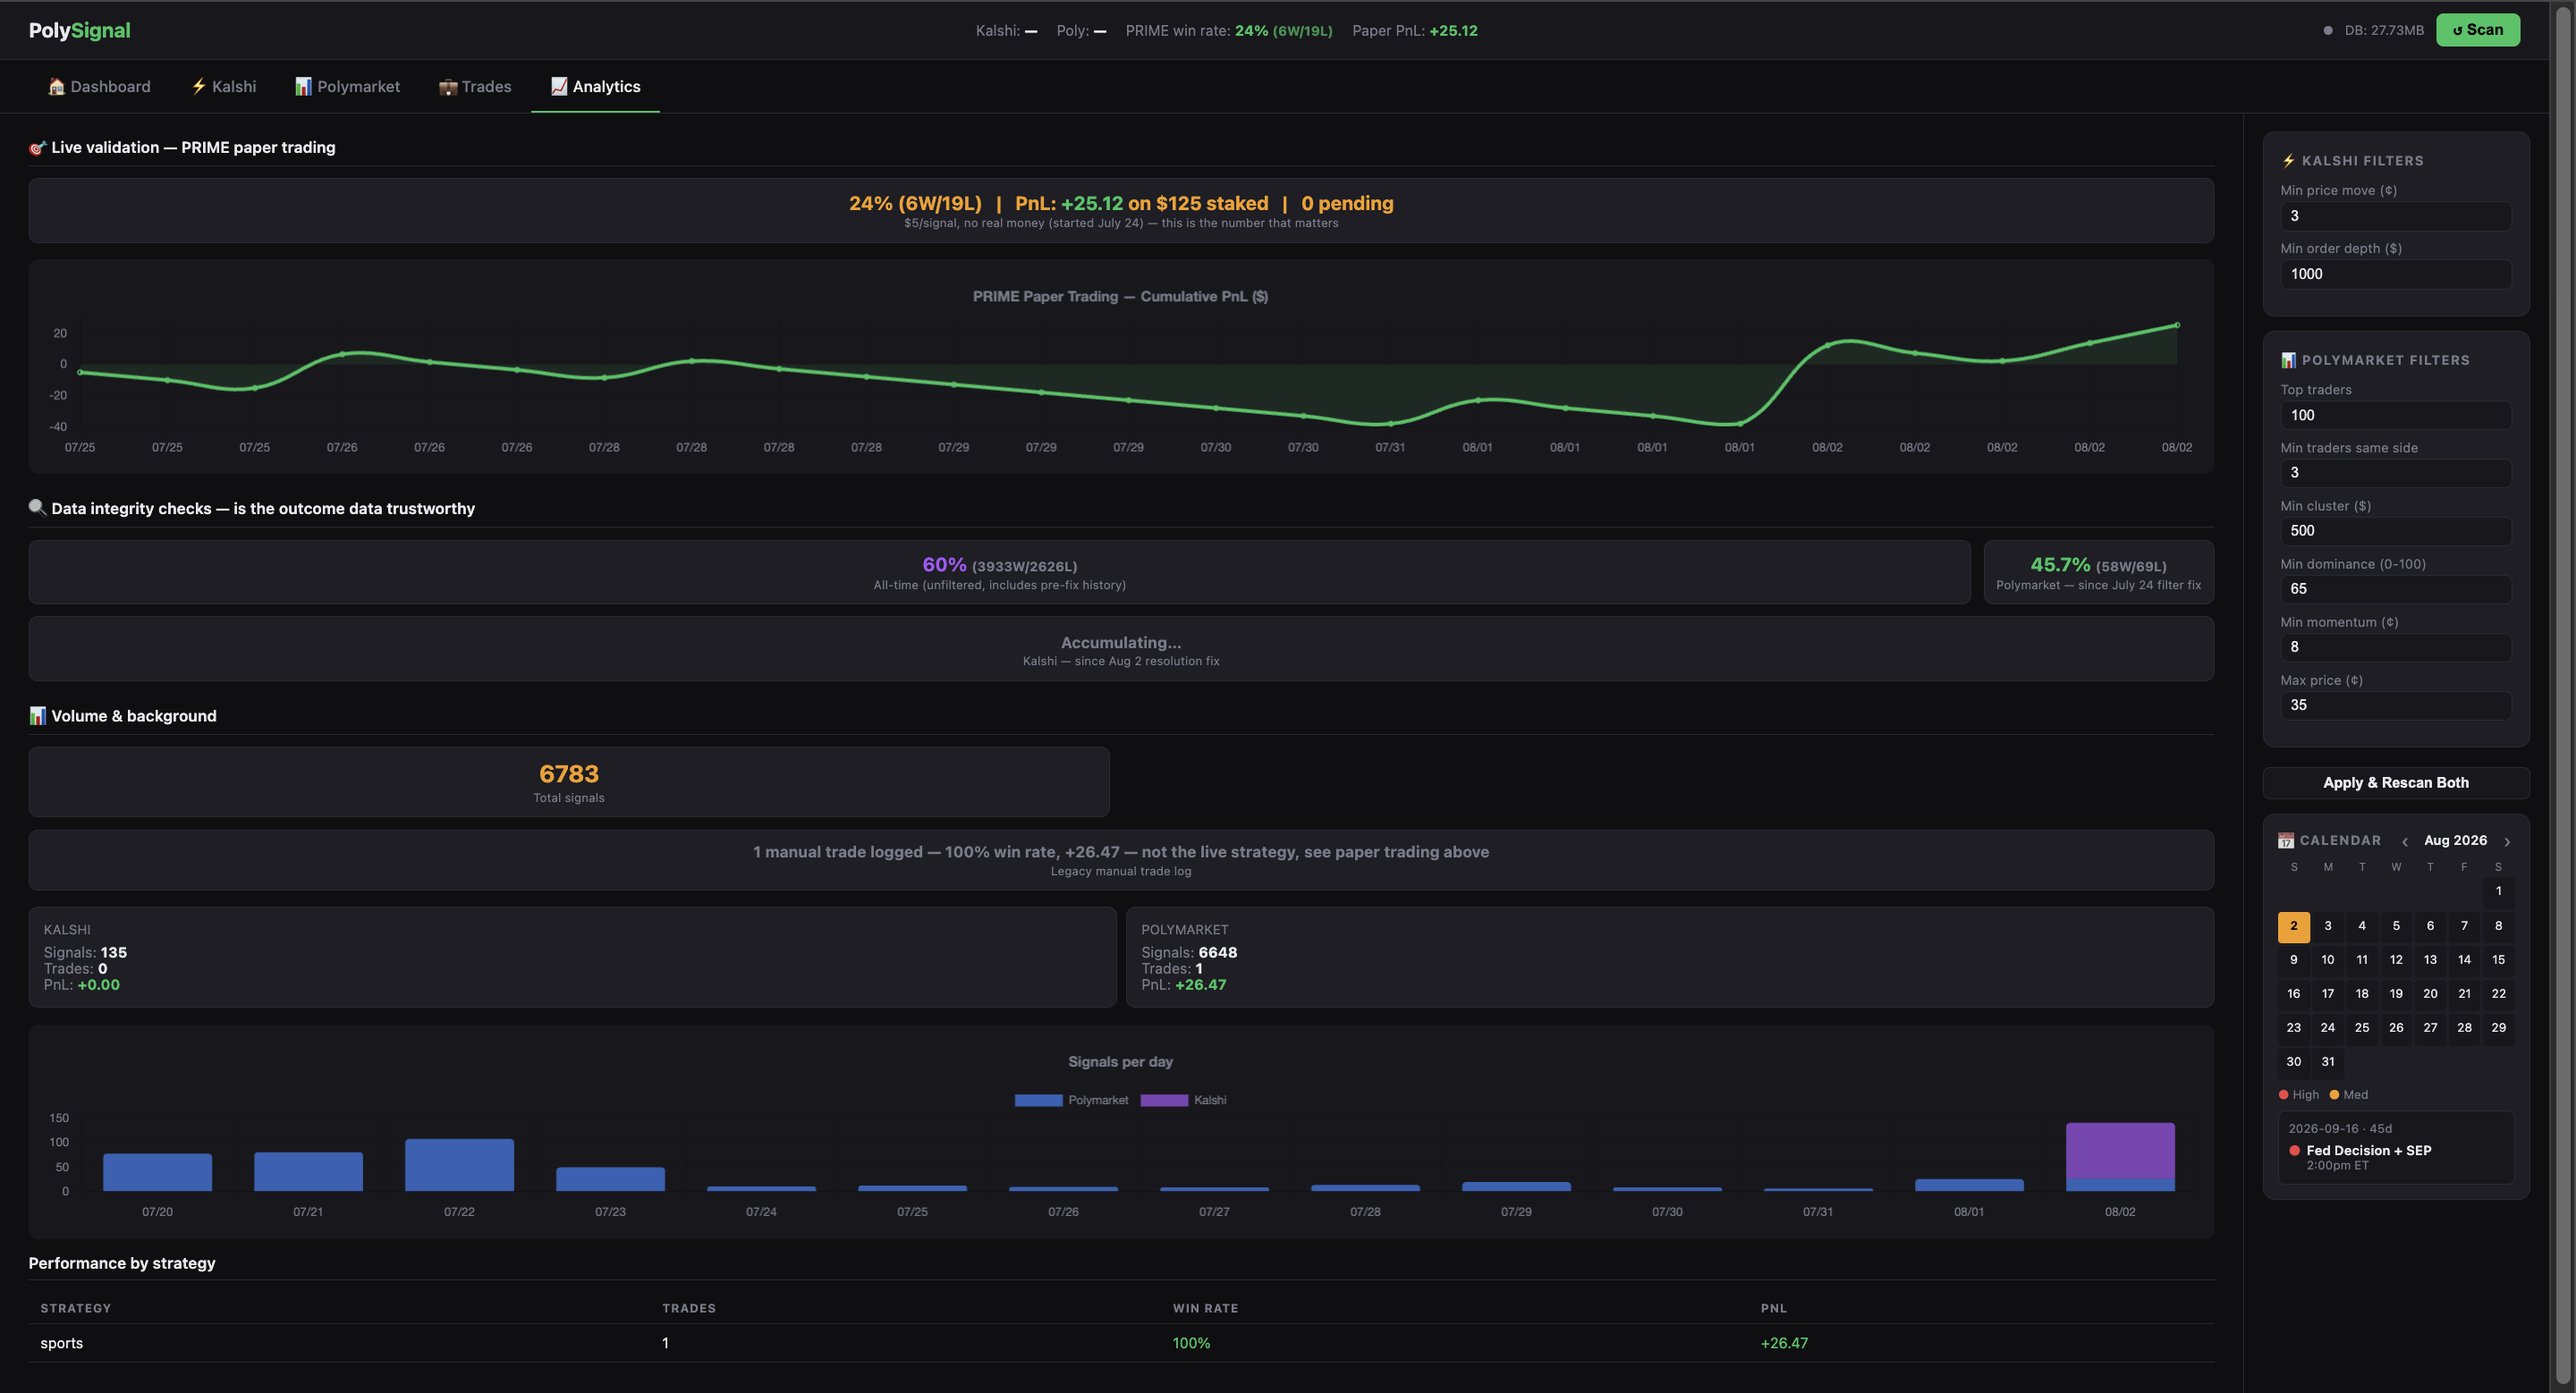
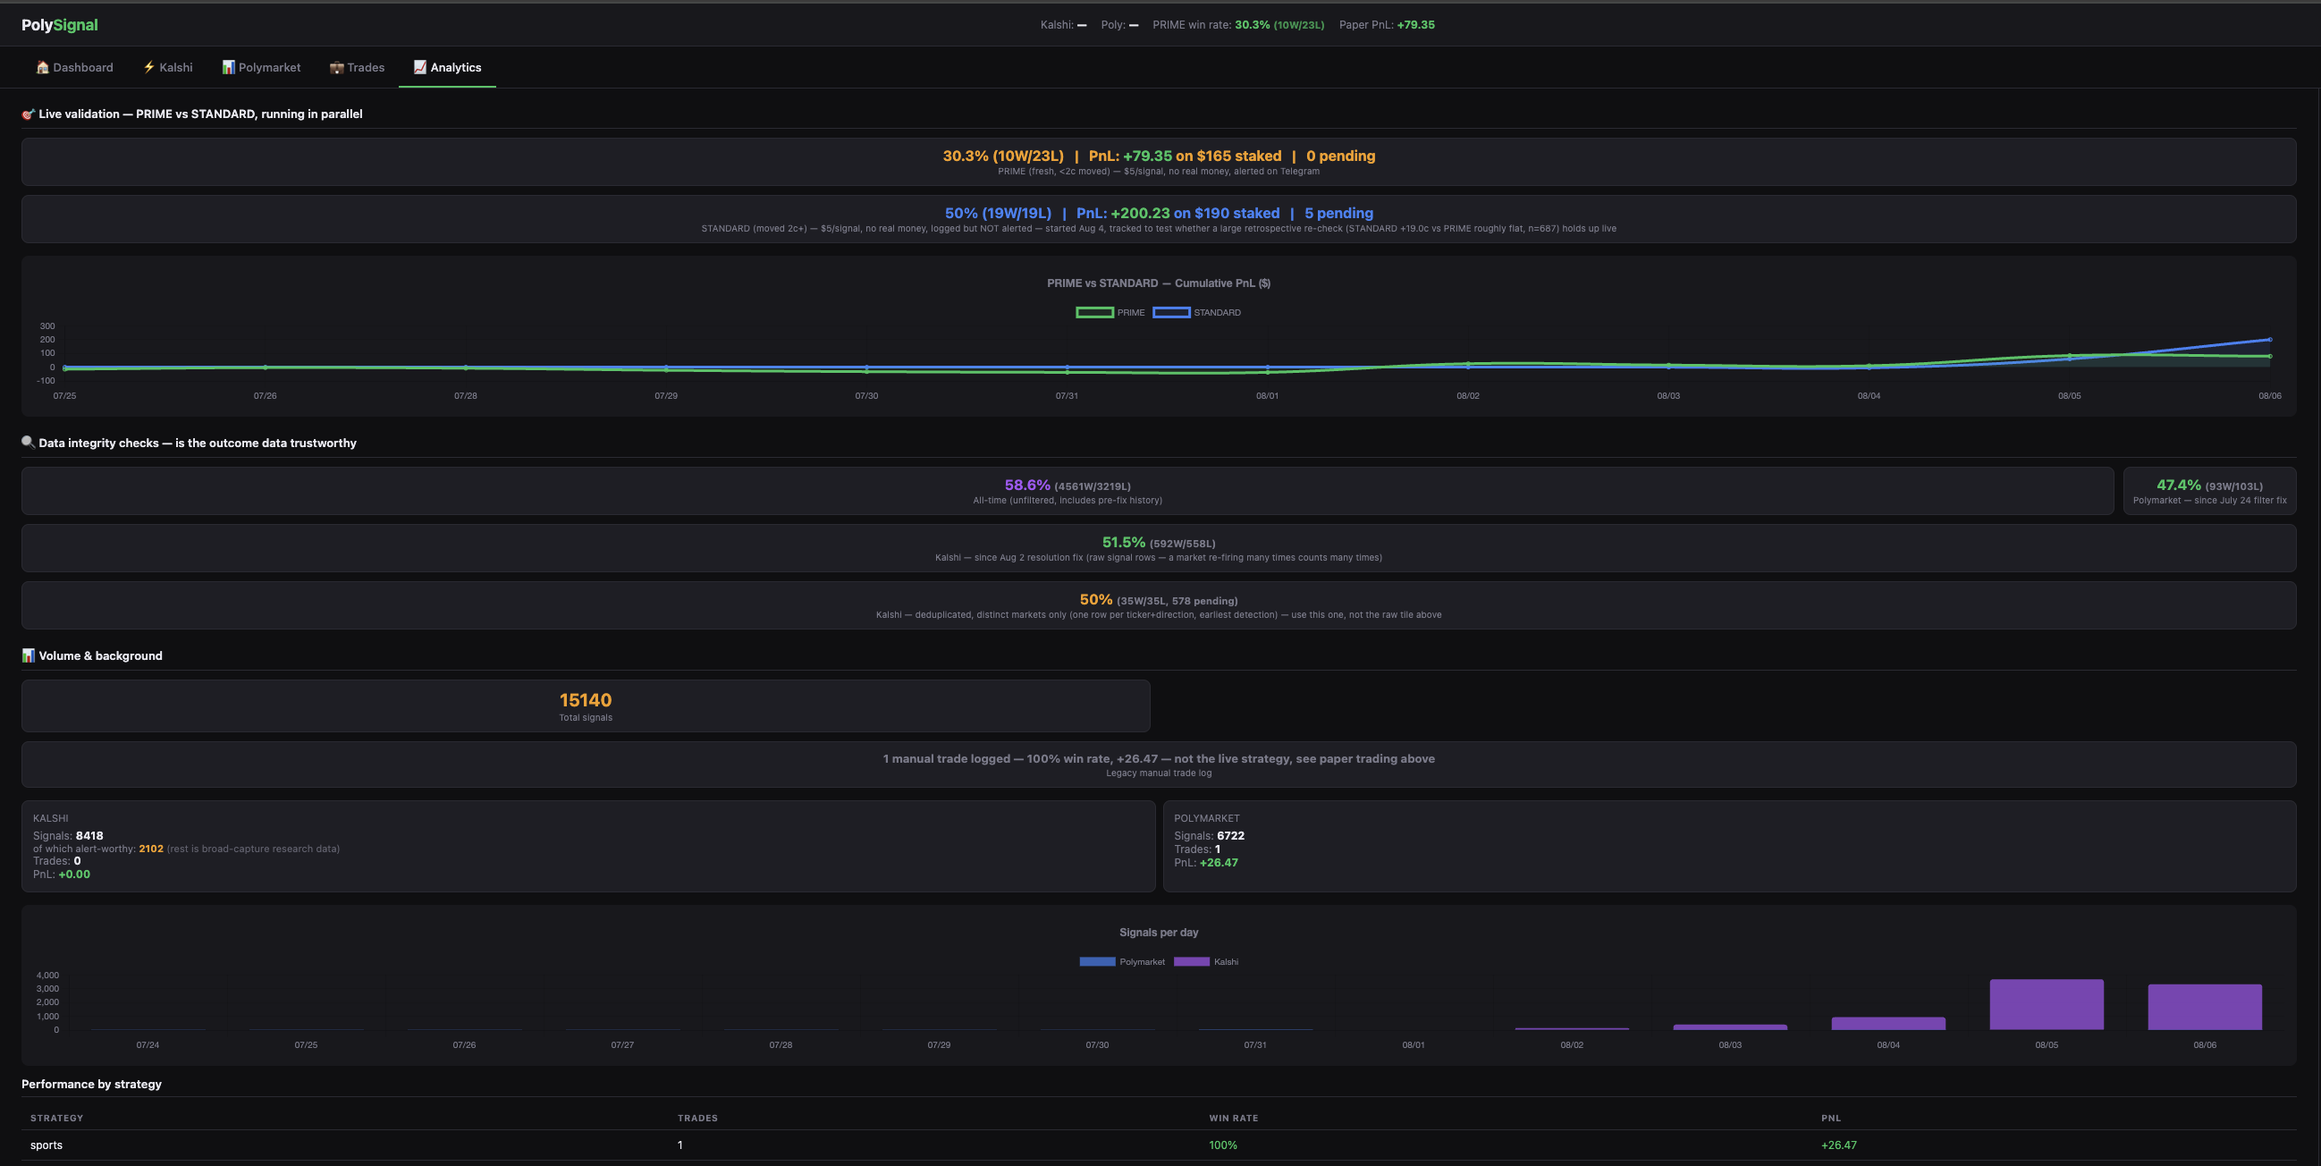
Add analytics dashboard screenshot; document Kalshi reliability fixes

diff --git a/README.md b/README.md
@@ -44,6 +44,9 @@ Both the resolution bug and the audit fix are live in production. `poly_max_pric
 
 Rather than trust the corrected backtest alone, every signal that clears the validated filter (fresh, ≤35¢) is logged as a hypothetical $5 position — no real capital — and automatically resolved against the same audited outcome pipeline. This builds a genuine forward track record on top of the historical analysis, visible on the dashboard as a live cumulative PnL chart.
 
+![Analytics dashboard](screenshot-analytics.png)
+*PRIME vs. STANDARD paper trading, live and running in parallel; below it, the deduplicated Kalshi accuracy tile — labeled explicitly as distinct-market data, not raw signal rows, after finding raw counts overstate real outcomes by roughly 18x.*
+
 ---
 
 ## Kalshi: The Same Audit Discipline, Applied a Second Time
@@ -57,6 +60,22 @@ Fixed by moving that memory to persist across scans instead of resetting each ti
 **A second bug, found while checking whether the fix could be trusted:** before treating any of Kalshi's new signal volume as reliable, its outcome-resolution logic got the same scrutiny that had already caught a major bug on the Polymarket side. It turned out to have the *exact same* flaw — a price crossing 95¢ or 5¢ was being treated as proof a market had closed, with no check on whether it actually had. A code comment nearby claimed Kalshi was "unaffected" by this failure mode; it wasn't. Kalshi's own watchlist includes live, in-progress sports markets that can spike on a single dramatic moment the same way a live tennis match did on Polymarket. Fixed to check Kalshi's actual settlement `result` field instead of inferring it from price — confirmed against Kalshi's live API before shipping. All previously-resolved Kalshi outcomes (a small number, since the platform had barely been producing any) were reset and left to re-resolve correctly.
 
 **Where this leaves Kalshi:** detection and resolution are now trustworthy, and every signal above a small noise floor (0.5¢ move, $100 depth — see [Signal Logic](#signal-logic) for how this differs from the alert threshold) is being saved for research — the same "collect broadly, find the edge empirically" approach that worked for Polymarket, rather than guessing at per-market thresholds up front. No price-bucket edge analysis has been run on Kalshi data yet, and Kalshi's market structure (regulated, USD-denominated, no trader-consensus mechanism, a different mix of macro vs. sports markets) means the Polymarket findings above don't necessarily carry over. That's an open question, not an assumption either way.
+
+### Round Two: Category Data, a Rate-Limit Storm, and a Silent Detection Gap
+
+Getting Kalshi detecting and resolving correctly wasn't the end of it. A second pass, prompted by wanting to slice Kalshi's data by market type, found four more real bugs — three of them only visible once real volume hit the pipeline.
+
+**Category was blank on every signal, on both platforms.** Kalshi's `/markets` endpoint no longer returns a `category` field at all (confirmed against Kalshi's current API docs — it was removed from Market responses; the real field lives one level up, on the Series object). Polymarket never had a category field to begin with. Fixed both: Kalshi now looks up each series's real category via `GET /series/{ticker}` (cached per series), and Polymarket pulls each event's real tags via the Gamma API — verified against live API responses before shipping, since a first guess at Kalshi's category taxonomy (built from ticker-prefix patterns) turned out not to match Kalshi's actual category names once checked against the real endpoint. Backfilled ~6,700 existing blank rows on each platform once the fix was live.
+
+**A rate-limiting storm, self-inflicted.** The resolution-check loop tried every pending signal, every single cycle — harmless at low volume, but once the backlog passed a few thousand, that was thousands of Kalshi API calls fired back-to-back every cycle. A second loop (per-market orderbook fetching) had zero pacing between calls at all. Together, both were tripping real 429 rate limits from Kalshi hard enough that almost nothing was resolving — confirmed directly in the logs, where a retry-loop bug was also mislabeling every rate-limited failure as a generic `None` error instead of what it actually was. Fixed with a bounded per-cycle batch, real exponential backoff, and proper request pacing.
+
+**The first fix for that made it worse, in a different way.** Bounding the batch by *oldest signal first* seemed like the obvious way to drain a backlog fairly. It backfired: "oldest" doesn't change for a signal that hasn't resolved yet, so the same fixed set of long-dated economics/politics signals got re-selected and re-checked every cycle, forever — while the much larger pool of fast-resolving sports and commodities signals never got touched at all. Confirmed live: zero net resolutions for over an hour even after the rate-limit fix deployed. Switched to random selection each cycle instead, so every pending signal gets a fair, eventually-covers-everything chance.
+
+**A second, unrelated gap surfaced during that same investigation.** The resolution loop only ever considered signals detected within the last 60 days — reasonable-looking, but silently permanent: a signal that ages past that window is excluded forever, even if it later resolves with a perfectly good result sitting on Kalshi's API. Confirmed directly on a real example (a May CPI market, finalized with `result: "no"`, invisible to the resolver at 72 days old). Extended the window to 400 days.
+
+**The last bug, found on a final audit pass, not a live symptom.** `fetch_markets()` requested only the first 20 open markets per series, per cycle, with no pagination — confirmed against Kalshi's own docs that `/markets` is cursor-paginated and a single call only returns page one. On any day with a full slate (a normal MLB day is ~15 games × 2 tickers), markets past position 20 were silently invisible to the scanner from the moment they opened, not just slow to resolve — confirmed concretely: a real, finalized MLB game had zero rows in the signals table, ever. Fixed with real cursor-following pagination, plus a per-series sub-cap so one busy sports day can't now crowd out every other category the same way sports itself was originally crowded out (see above).
+
+**Where this actually leaves things:** as of this pass, Kalshi's deduplicated resolved sample sits at 35W/35L (578 still pending, drawn from a research-capture pool of ~8,400 signals) — a real, live, steadily-growing number now that the pipeline is fixed end to end, not yet a large enough sample to say anything about an edge. The pattern across both audit passes is the same one that shaped the Polymarket findings above: assume nothing is silently correct just because it isn't throwing an error, and check every fix against live data before trusting it.
 
 ---
 
